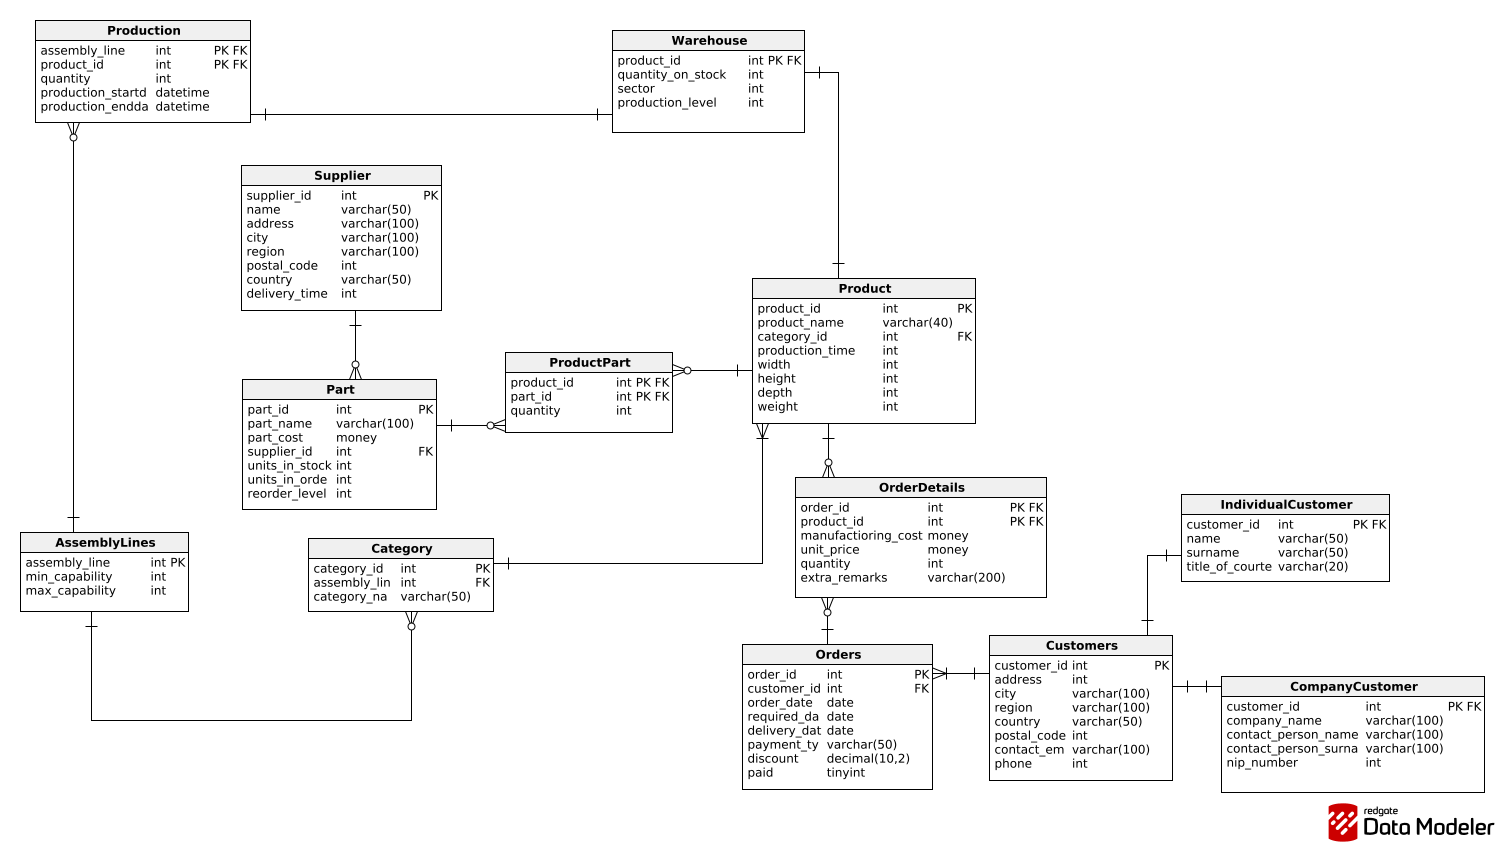
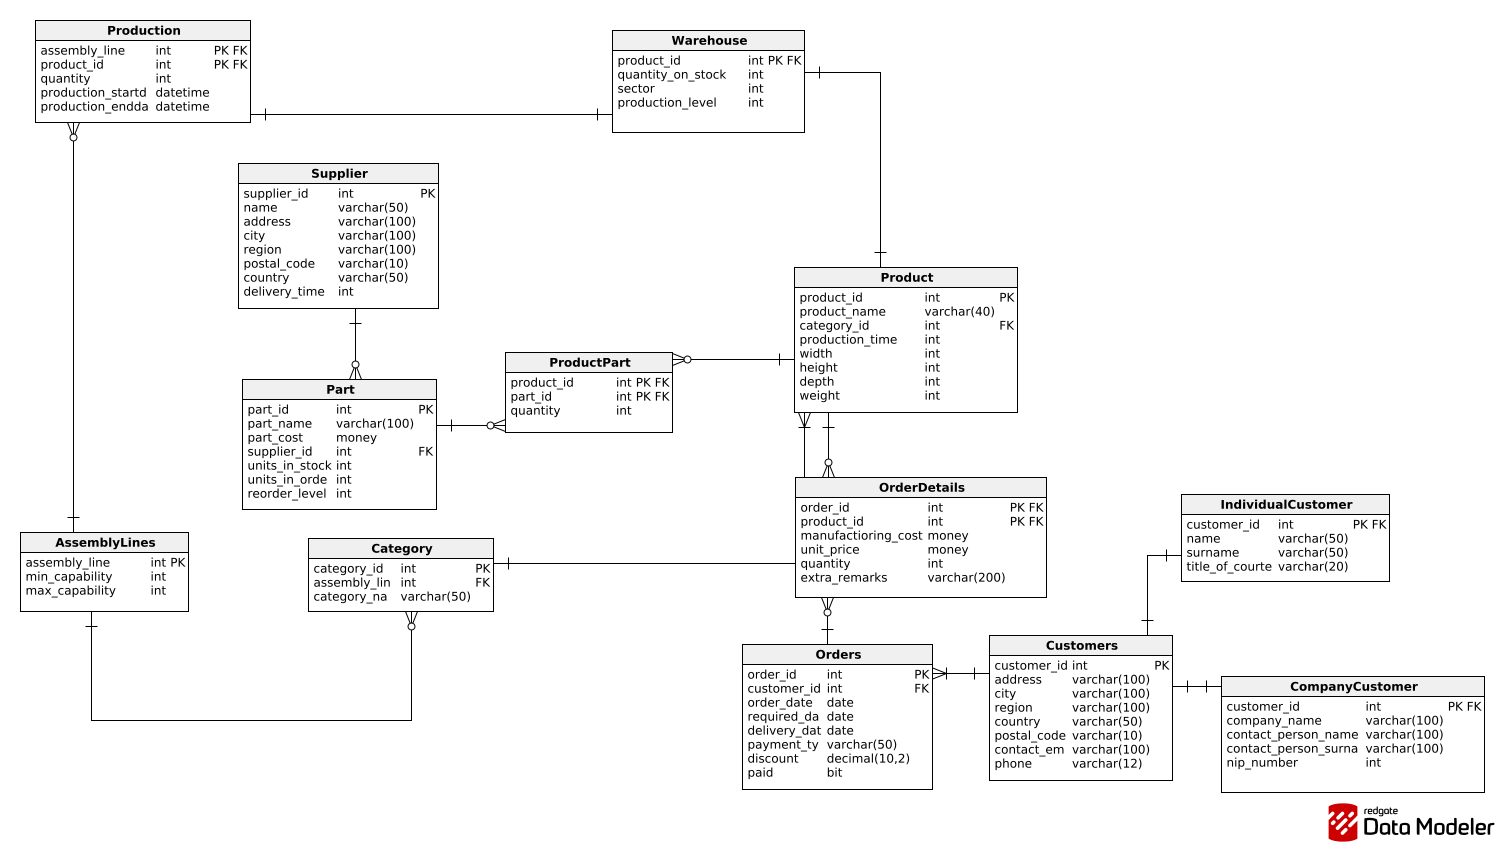
Fixed mistakes, removed fixed comments

diff --git a/sample_raport.md b/sample_raport.md
@@ -91,7 +91,7 @@ Klient biznesowy specjalizuje się w produkcji mebli biurowych, w szczególnośc
 | adress        | varchar(100) |        | Ulica i numer budynku                                                       |
 | city          | varchar(100) |        | Miasto siedziby firmy                                                       |
 | region        | varchar(100) |        | Województwo/stan/land                                                       |
-| postal_code   | int ?!       |        | Kod pocztowy                                                                |
+| postal_code   | varchar (10)      |        | Kod pocztowy                                                                |
 | country       | varchar(50)  |        | Kraj                                                                        |
 | delivery_time | int          |        | Średni oczekiwany czas dostawy (do oszacowania czasu realizacji zamówienia) |
 
@@ -138,9 +138,9 @@ Klient biznesowy specjalizuje się w produkcji mebli biurowych, w szczególnośc
 | delivery_date | date          |        | Rzeczywista data dostarczenia zamówienia   |
 | payment_type  | varchar(50)   |        | Typ płatności                              |
 | discount      | decimal(10,2) |        | Zniżka na całe zamówienie                  |
-| paid          | tinyint       |        | ???                                        |
+| paid          | bit       |        | Określa, czy klient zapłacił za zamówienie                                        |
 
-[comment]: <> (Czym jest paid i dlaczego jest tinyint xd. Czy discount nie lepiej zrobić w procentach? Czy delivery_date to dobra nazwa? My nie zajmujemy się wysyłką. Nie lepiej sent_date czy coś)
+[comment]: <> (Czy discount nie lepiej zrobić w procentach? Czy delivery_date to dobra nazwa? My nie zajmujemy się wysyłką. Nie lepiej sent_date czy coś)
 
 ### OrderDetails
 
@@ -160,15 +160,15 @@ Klient biznesowy specjalizuje się w produkcji mebli biurowych, w szczególnośc
 | Kolumna       | Typ          | Klucz  | Opis/Uwagi                                           |
 | ------------- | ------------ | ------ | ---------------------------------------------------- |
 | customer_id   | int          | główny | Identyfikator klienta                                |
-| adress        | int ?!!!!    |        | Ulica i numer budynku                                |
+| adress        | varchar (100)    |        | Ulica i numer budynku                                |
 | city          | varchar(100) |        | Miasto siedziby klienta/ Miasto zamieszkania klienta |
 | region        | varchar(100) |        | Województwo/stan/land                                |
 | country       | varchar(50)  |        | Kraj                                                 |
-| postal_code   | int ?!       |        | Kod pocztowy                                         |
+| postal_code   | varchar(10)       |        | Kod pocztowy                                         |
 | contact_email | varchar(100) |        | Email                                                |
-| phone         | int ?!       |        | Numer telefonu                                       |
+| phone         | varchar (12)       |        | Numer telefonu                                       |
 
-[comment]: <> (te typy są delikatnie mówiąc niedopracowane xd)
+[comment]: <> (typy powinny być już dopracowane)
 
 ### IndividualCustomer
 
